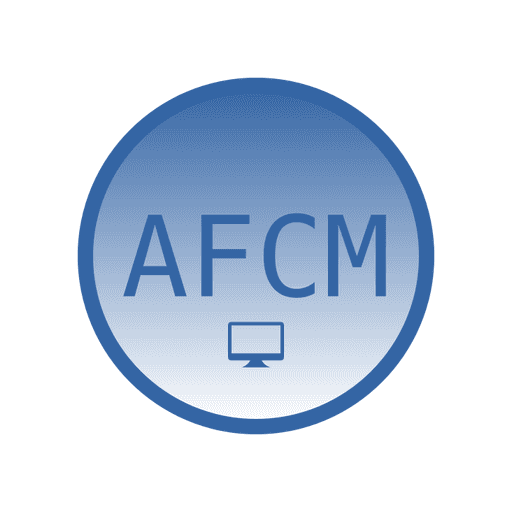
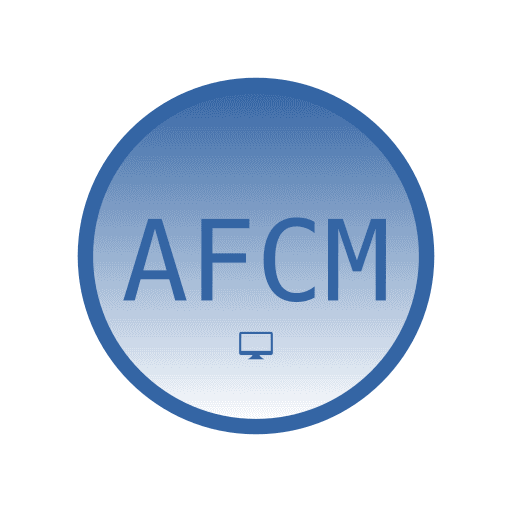
Use SVG file for my PP

diff --git a/index.html b/index.html
@@ -2,8 +2,10 @@
 <html lang="en">
 	<head>
 		<meta charset="utf-8" />
-		<link rel="icon" href="/favicon.png" />
+		<link rel="icon" href="/favicon.ico" sizes="any" />
+		<link rel="icon" href="/favicon.svg" type="image/svg+xml" />
 		<link rel="apple-touch-icon" href="/apple-touch-icon-180x180.png" />
+
 		<meta name="viewport" content="width=device-width, initial-scale=1" />
 		<meta name="theme-color" content="#000000" />
 		<meta name="description" content="AFCMS' Portfolio" />
@@ -12,7 +14,7 @@
 		<meta property="og:title" content="AFCMS • Portfolio" />
 		<meta property="og:description" content="AFCMS' personal portfolio" />
 		<meta property="og:url" content="/" />
-		<meta property="og:image" content="/favicon.png" />
+		<meta property="og:image" content="/favicon.svg" />
 		<meta content="#3465a4" data-react-helmet="true" name="theme-color" />
 
 		<!--Preload Inter-->
@@ -22,7 +24,6 @@
 		<!--Verification key used to prove the ownership of the site in the Google Search Console-->
 		<meta name="google-site-verification" content="0oK_4G11mT3ELYqarosUht656tOQAw5s0n8QMrZpuXU" />
 
-		<link rel="apple-touch-icon" href="/favicon.png" />
 		<title>AFCMS • Portfolio</title>
 	</head>
 	<body>

diff --git a/src/components/About/index.tsx b/src/components/About/index.tsx
@@ -2,14 +2,13 @@ import { SiLinkedin } from "react-icons/si";
 
 import GlassButton from "../GlassButton";
 
-import afcm_logo from "../../logo.png";
 import links from "../../utils/links";
 
 export default function About() {
 	return (
 		<section class="text-header font-inter relative m-auto w-full max-w-4xl px-4 py-10 lg:py-14">
 			<div class="flex flex-row items-center gap-2">
-				<img class="h-16 w-16 rounded-full shadow" src={afcm_logo} alt="AFCM's logo" />
+				<img class="h-16 w-16 rounded-full shadow" src="/favicon.svg" alt="AFCMS' logo" />
 				<h1 class="font-inter text-header text-2xl font-bold">AFCMS</h1>
 				<span class="grow"></span>
 				<ul class="flex flex-row items-center gap-2">

diff --git a/pwa-assets.config.ts b/pwa-assets.config.ts
@@ -3,5 +3,5 @@ import { defineConfig } from "@vite-pwa/assets-generator/config";
 // noinspection JSUnusedGlobalSymbols
 export default defineConfig({
 	preset: "minimal-2023",
-	images: ["public/favicon.png"],
+	images: ["public/favicon.svg"],
 });
